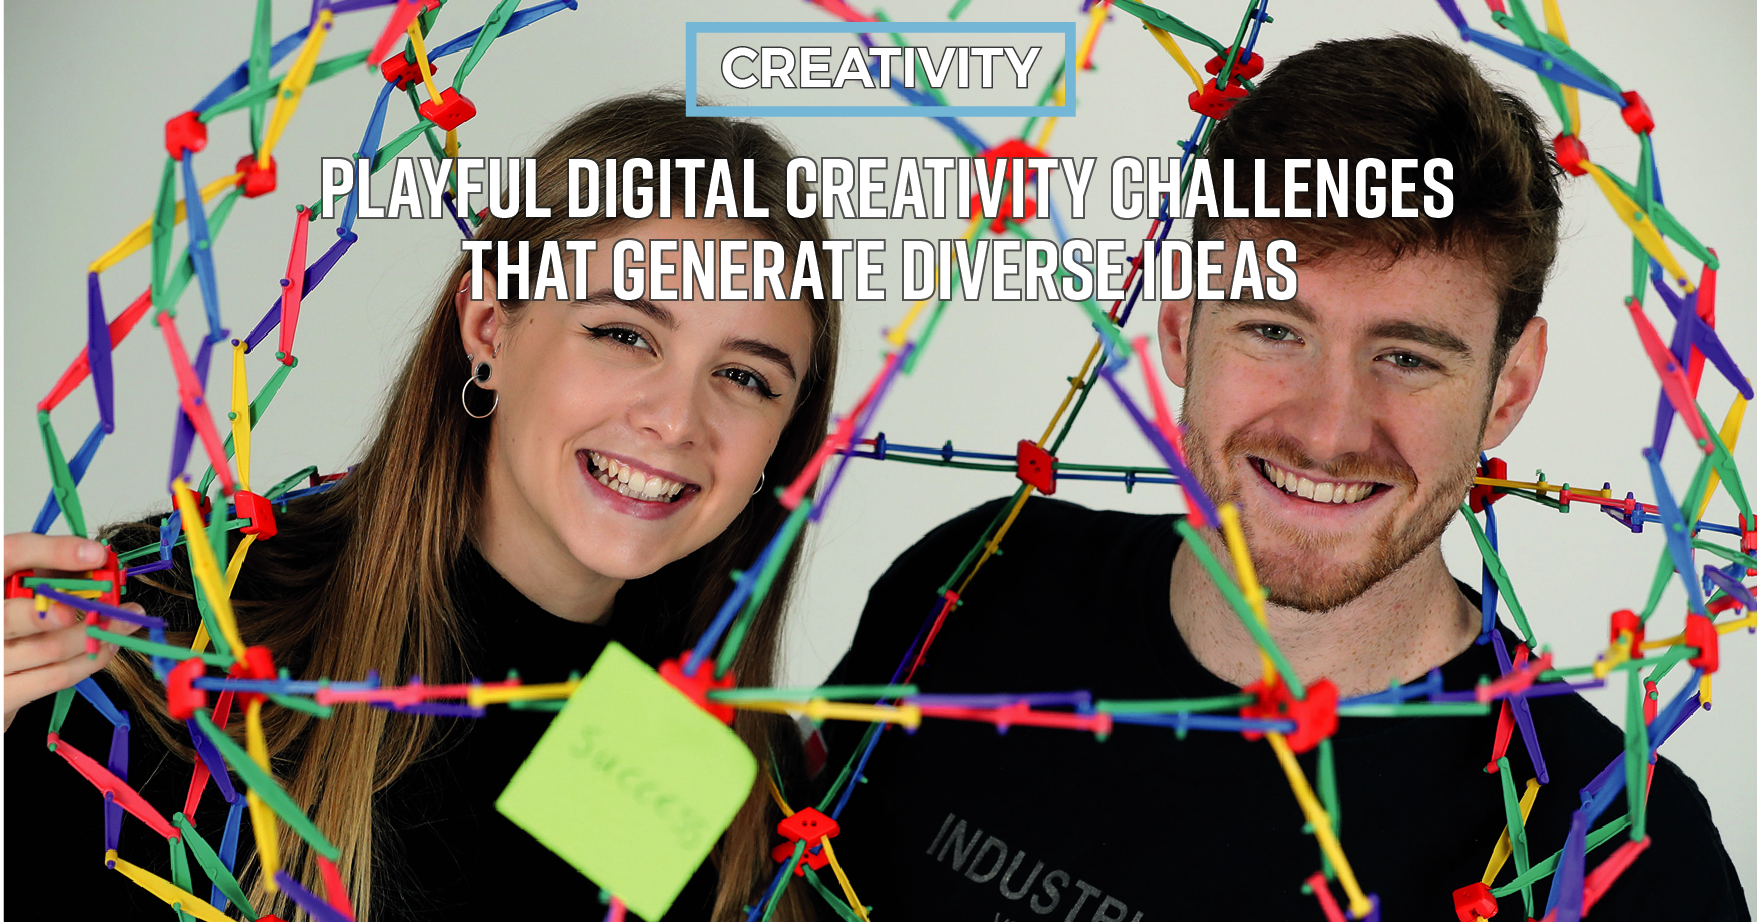
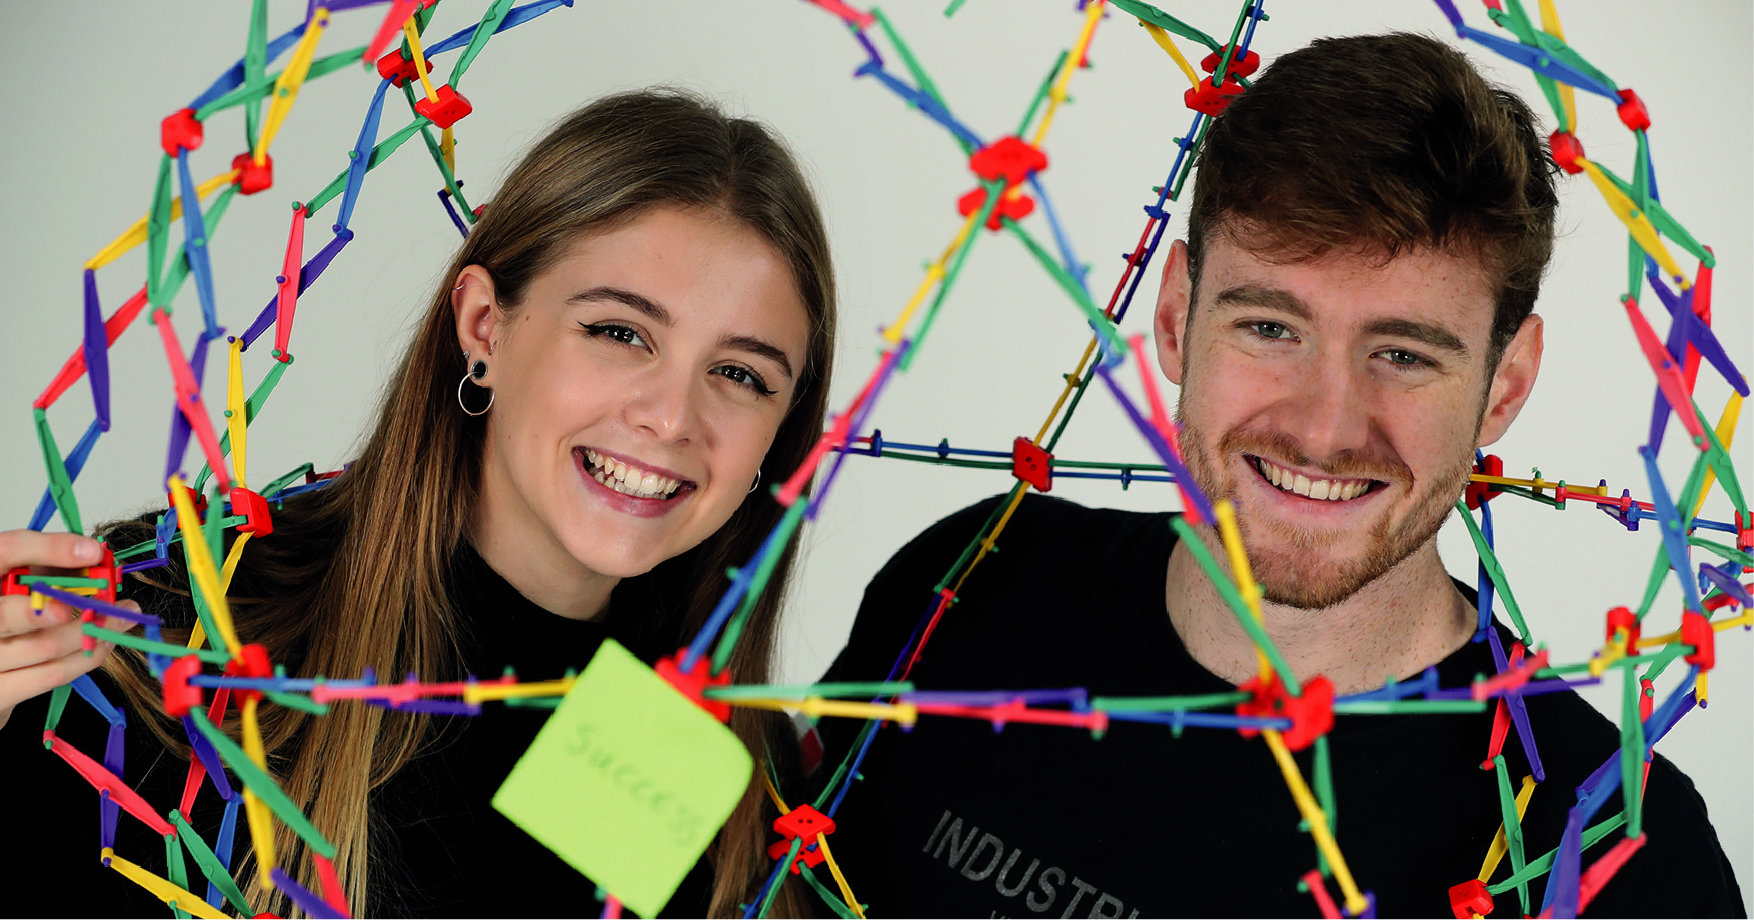
small changes

diff --git a/sprints.html b/sprints.html
@@ -11,6 +11,7 @@
     <script src="https://ajax.googleapis.com/ajax/libs/jquery/3.4.1/jquery.min.js"></script>
     <script src="https://cdnjs.cloudflare.com/ajax/libs/popper.js/1.16.0/umd/popper.min.js"></script>
     <script src="https://maxcdn.bootstrapcdn.com/bootstrap/4.4.1/js/bootstrap.min.js"></script>
+    <script src="./assets/js/smoothScroll.js"></script>
     <link rel="stylesheet" type="text/css" href="./assets/css/index.css">
     <link rel="stylesheet" type="text/css" href="./assets/css/sprints.css">
 </head>
@@ -76,7 +77,6 @@
         <div class="container text-center" id="section2">
             <p id="sec2">
                 Our Sprints are high energy, hands-on half or one day problem solving workshops. They engage and excite staff as teams capture actionable user insights and prototype their solutions to real business challenges using design thinking, agile, lean and business model innovation.<br>
-                We advise on themes to tackle, format (in-person, remote, blended), team makeup, venue and judging. And unlike other Sprints we specialise in developing immersive post-Sprint initiatives that ensure the benefits of the experience endures and delivers sustainable value.
             </p>
         </div>
     </section>
@@ -102,11 +102,11 @@
 
     <section>
         <div class="container-fluid text-center">
-            <img src="assets/images/testiSection-sprints.png" style="min-width: 100%;" />
+            <img src="assets/images/testiSection-sprints.png" style="max-width: 75%;" />
         </div>
     </section>
 
-    <section>
+    <!-- <section>
         <div class="container" id="section2-sprint">
             <p id="sec2">
                 Sprint Preparation is key to success. Fergal advises on themes/domains that your teams will
@@ -116,6 +116,14 @@
                 your judging panel.
             </p>
 
+        </div>
+    </section> -->
+
+    <section>
+        <div class="container text-center" id="section2">
+            <p id="sec2">
+                We advise on themes to tackle, format (in-person, remote, blended), team makeup, venue and judging. And unlike other Sprints we specialise in developing immersive post-Sprint initiatives that ensure the benefits of the experience endures and delivers sustainable value.
+            </p>
         </div>
     </section>
 
@@ -137,7 +145,7 @@
         <div class="container-fluid" id="footer">
             <div class="row">
                 <div class="col-lg-4 col-md-4 col-sm-12 text-right" id="footer-left-text">
-                    <p><img class="footer-icon" src="assets/images/footerIcons/FB Website (phone icon).png" />086 <b>806
+                    <p><img class="footer-icon-phone" src="assets/images/footerIcons/FB Website (phone icon).png" /> 086 <b>806
                             9685</b><br>
                         <img class="footer-icon" src="assets/images/footerIcons/FB Website (email icon).png" /><b>
                             fergal</b>@<b>fergalbrophy.</b>com</p>

diff --git a/index.html b/index.html
@@ -10,6 +10,7 @@
   <script src="https://ajax.googleapis.com/ajax/libs/jquery/3.4.1/jquery.min.js"></script>
   <script src="https://cdnjs.cloudflare.com/ajax/libs/popper.js/1.16.0/umd/popper.min.js"></script>
   <script src="https://maxcdn.bootstrapcdn.com/bootstrap/4.4.1/js/bootstrap.min.js"></script>
+  <script src="./assets/js/smoothScroll.js"></script>
   <link rel="stylesheet" type="text/css" href="./assets/css/index.css">
   <link rel="stylesheet" type="text/css" href="./assets/css/font-awesome.min.css">
 </head>
@@ -60,12 +61,12 @@
       <div class="col-6"></div>
       <div class="col-6">
         <div class="text-right">
-          <a href="#"></a><img src="assets/images/index-page/envelope.png" id="social-icons-intro" /></a>
+          <a href="mailto:fergal@fergalbrophy.com"><img src="assets/images/index-page/envelope.png" id="social-icons-intro" /></a>
           <a href="http://linkedin.com/in/fergalbrophy"><img src="assets/images/index-page/linkedin.png" id="social-icons-intro" /></a>
           <a href="https://www.youtube.com/channel/UC1wqTph0xxVtpY6LNFTmTxA"><img src="assets/images/index-page/youtube.png" id="social-icons-intro" /></a>
-          <a href="#"><img src="assets/images/index-page/twitter.png" id="social-icons-intro" style="border-style: none;" /></a>
+          <a href="https://twitter.com/FergalBrophy?s=03"><img src="assets/images/index-page/twitter.png" id="social-icons-intro" style="border-style: none;" /></a>
         </div>
-        <h1 id="introText">IRISH BUSINESS AND PUBLIC SERVICE IS PRIMED FOR RELENTLESS INNOVATION - <br><i>WE JUST NEED TO<br>
+        <h1 id="introText">IRELAND IS PRIMED FOR RELENTLESS INNOVATION - <br><i>WE JUST NEED TO<br>
             UNLEASH IT...</i></h1>
       </div>
     </div>
@@ -194,7 +195,7 @@
     <div class="container-fluid" id="footer">
         <div class="row">
             <div class="col-lg-4 col-md-4 col-sm-12 text-right" id="footer-left-text">
-                <p><img class="footer-icon" src="assets/images/footerIcons/FB Website (phone icon).png" />086 <b>806
+                <p><img class="footer-icon-phone" src="assets/images/footerIcons/FB Website (phone icon).png" /> 086 <b>806
                         9685</b><br>
                     <img class="footer-icon" src="assets/images/footerIcons/FB Website (email icon).png" /><b>
                         fergal</b>@<b>fergalbrophy.</b>com</p>

diff --git a/creativity.html b/creativity.html
@@ -11,6 +11,7 @@
     <script src="https://ajax.googleapis.com/ajax/libs/jquery/3.4.1/jquery.min.js"></script>
     <script src="https://cdnjs.cloudflare.com/ajax/libs/popper.js/1.16.0/umd/popper.min.js"></script>
     <script src="https://maxcdn.bootstrapcdn.com/bootstrap/4.4.1/js/bootstrap.min.js"></script>
+    <script src="./assets/js/smoothScroll.js"></script>
     <link rel="stylesheet" type="text/css" href="./assets/css/index.css">
     <link rel="stylesheet" type="text/css" href="./assets/css/sprints.css">
 </head>
@@ -60,10 +61,9 @@
         <div class="container text-center">
             <div class="row">
                 <div class="col-12 text-center">
-                    <!-- <h1 style="margin: 2rem;"><span id="intro-sprint-header">CREATIVITY</span></h1>
-                    <h1 class="unleash-sprint">PLAYFUL DIGITAL CREATIVITY CHALLENGES<br>
-                        THAT GENERATE DIVERSE IDEAS
-                    </h1> -->
+                    <h1 style="margin: 2rem;"><span id="intro-sprint-header">CREATIVITY</span></h1>
+                    <h1 class="unleash-sprint">DIGITAL CHALLENGES TO GENERATE DIVERSE IDEAS
+                    </h1>
                 </div>
             </div>
         </div>
@@ -100,7 +100,7 @@
             <h4 id="unleash-header">OUR <span id="on-demand-text">ON-DEMAND</span> CREATIVITY APPS</h4>
         </div>
         <div class="container-fluid text-center">
-            <img src="assets/images/creativity-page/creativity-banner.png" style="max-width: 90%;" />
+            <img src="assets/images/creativity-page/creativity-banner.png" style="max-width: 75%;" />
         </div>
     </section>
 
@@ -122,7 +122,7 @@
         <div class="container-fluid" id="footer">
             <div class="row">
                 <div class="col-lg-4 col-md-4 col-sm-12 text-right" id="footer-left-text">
-                    <p><img class="footer-icon" src="assets/images/footerIcons/FB Website (phone icon).png" />086 <b>806
+                    <p><img class="footer-icon-phone" src="assets/images/footerIcons/FB Website (phone icon).png" /> 086 <b>806
                             9685</b><br>
                         <img class="footer-icon" src="assets/images/footerIcons/FB Website (email icon).png" /><b>
                             fergal</b>@<b>fergalbrophy.</b>com</p>

diff --git a/advisory.html b/advisory.html
@@ -11,6 +11,7 @@
     <script src="https://ajax.googleapis.com/ajax/libs/jquery/3.4.1/jquery.min.js"></script>
     <script src="https://cdnjs.cloudflare.com/ajax/libs/popper.js/1.16.0/umd/popper.min.js"></script>
     <script src="https://maxcdn.bootstrapcdn.com/bootstrap/4.4.1/js/bootstrap.min.js"></script>
+    <script src="./assets/js/smoothScroll.js"></script>
     <link rel="stylesheet" type="text/css" href="./assets/css/index.css">
     <link rel="stylesheet" type="text/css" href="./assets/css/sprints.css">
 </head>
@@ -136,10 +137,10 @@
     <section>
         <div class="container text-center" id="section2-sprint" style="padding:0rem 10rem 1rem 10rem;">
             <p id="sec2" class="sprint-testimonial">
-                “Open Innovation Services facilitated a fascinating prototyping and testing
+                “Fergal facilitated a fascinating prototyping and testing
                 session with our Global Information Technology team. We practiced with
-                cheap and cheerful, low cost, quick sketches and role-play in a fun, supportive
-                environment. We examined how we could use these basic prototypes to test
+                sketches and digital prototypes in a fun, supportive
+                environment. We examined how to test
                 user actions and ultimately deliver more innovative, better solutions for
                 our internal customers. A number of people started using the tools
                 immediately which is so encouraging”<br>
@@ -153,7 +154,7 @@
         <div class="container-fluid" id="footer">
             <div class="row">
                 <div class="col-lg-4 col-md-4 col-sm-12 text-right" id="footer-left-text">
-                    <p><img class="footer-icon" src="assets/images/footerIcons/FB Website (phone icon).png" />086 <b>806
+                    <p><img class="footer-icon-phone" src="assets/images/footerIcons/FB Website (phone icon).png" /> 086 <b>806
                             9685</b><br>
                         <img class="footer-icon" src="assets/images/footerIcons/FB Website (email icon).png" /><b>
                             fergal</b>@<b>fergalbrophy.</b>com</p>

diff --git a/talks.html b/talks.html
@@ -11,6 +11,7 @@
     <script src="https://ajax.googleapis.com/ajax/libs/jquery/3.4.1/jquery.min.js"></script>
     <script src="https://cdnjs.cloudflare.com/ajax/libs/popper.js/1.16.0/umd/popper.min.js"></script>
     <script src="https://maxcdn.bootstrapcdn.com/bootstrap/4.4.1/js/bootstrap.min.js"></script>
+    <script src="./assets/js/smoothScroll.js"></script>
     <link rel="stylesheet" type="text/css" href="./assets/css/index.css">
     <link rel="stylesheet" type="text/css" href="./assets/css/sprints.css">
 </head>
@@ -61,7 +62,7 @@
             <div class="row">
                 <div class="col-12 text-center">
                     <h1 style="margin: 2rem;"><span id="intro-sprint-header">TALKS</span></h1>
-                    <h1 class="unleash-sprint">ALL ACTION, INSPIRING, IMMERSIVE AUDIENCE ENGAGEMENTS
+                    <h1 class="unleash-sprint">ALL ACTION, INSPIRING, IMMERSIVE ENGAGEMENTS
                     </h1>
                 </div>
             </div>
@@ -144,7 +145,7 @@
         <div class="container-fluid" id="footer">
             <div class="row">
                 <div class="col-lg-4 col-md-4 col-sm-12 text-right" id="footer-left-text">
-                    <p><img class="footer-icon" src="assets/images/footerIcons/FB Website (phone icon).png" />086 <b>806
+                    <p><img class="footer-icon-phone" src="assets/images/footerIcons/FB Website (phone icon).png" /> 086 <b>806
                             9685</b><br>
                         <img class="footer-icon" src="assets/images/footerIcons/FB Website (email icon).png" /><b>
                             fergal</b>@<b>fergalbrophy.</b>com</p>

diff --git a/assets/js/smoothScroll.js b/assets/js/smoothScroll.js
@@ -1,0 +1,36 @@
+// Select all links with hashes
+$('a[href*="#"]')
+  // Remove links that don't actually link to anything
+  .not('[href="#"]')
+  .not('[href="#0"]')
+  .click(function(event) {
+    // On-page links
+    if (
+      location.pathname.replace(/^\//, '') == this.pathname.replace(/^\//, '') 
+      && 
+      location.hostname == this.hostname
+    ) {
+      // Figure out element to scroll to
+      var target = $(this.hash);
+      target = target.length ? target : $('[name=' + this.hash.slice(1) + ']');
+      // Does a scroll target exist?
+      if (target.length) {
+        // Only prevent default if animation is actually gonna happen
+        event.preventDefault();
+        $('html, body').animate({
+          scrollTop: target.offset().top
+        }, 1000, function() {
+          // Callback after animation
+          // Must change focus!
+          var $target = $(target);
+          $target.focus();
+          if ($target.is(":focus")) { // Checking if the target was focused
+            return false;
+          } else {
+            $target.attr('tabindex','-1'); // Adding tabindex for elements not focusable
+            $target.focus(); // Set focus again
+          };
+        });
+      }
+    }
+  });

diff --git a/challenges.html b/challenges.html
@@ -11,6 +11,7 @@
     <script src="https://ajax.googleapis.com/ajax/libs/jquery/3.4.1/jquery.min.js"></script>
     <script src="https://cdnjs.cloudflare.com/ajax/libs/popper.js/1.16.0/umd/popper.min.js"></script>
     <script src="https://maxcdn.bootstrapcdn.com/bootstrap/4.4.1/js/bootstrap.min.js"></script>
+    <script src="./assets/js/smoothScroll.js"></script>
     <link rel="stylesheet" type="text/css" href="./assets/css/index.css">
     <link rel="stylesheet" type="text/css" href="./assets/css/sprints.css">
 </head>
@@ -94,7 +95,7 @@
         <div class="container-fluid" id="footer">
             <div class="row">
                 <div class="col-lg-4 col-md-4 col-sm-12 text-right" id="footer-left-text">
-                    <p><img class="footer-icon" src="assets/images/footerIcons/FB Website (phone icon).png" />086 <b>806
+                    <p><img class="footer-icon-phone" src="assets/images/footerIcons/FB Website (phone icon).png" /> 086 <b>806
                             9685</b><br>
                         <img class="footer-icon" src="assets/images/footerIcons/FB Website (email icon).png" /><b>
                             fergal</b>@<b>fergalbrophy.</b>com</p>

diff --git a/assets/css/index.css b/assets/css/index.css
@@ -269,7 +269,11 @@ footer{
 }
 
 .footer-icon{
-    height: 35px;
+    height: 26px;
+}
+
+.footer-icon-phone{
+    height: 40px;
 }
 
 .advi-img{
